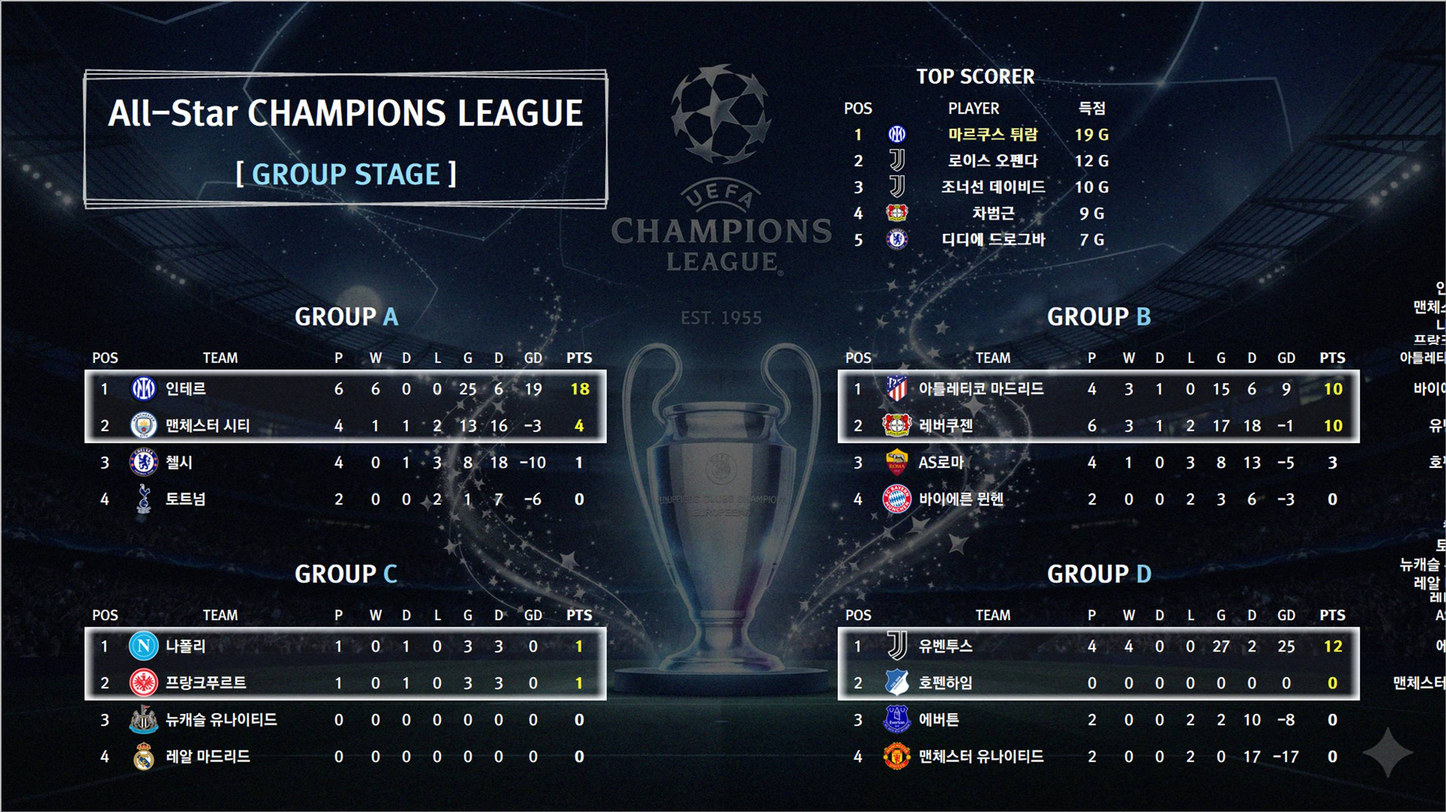
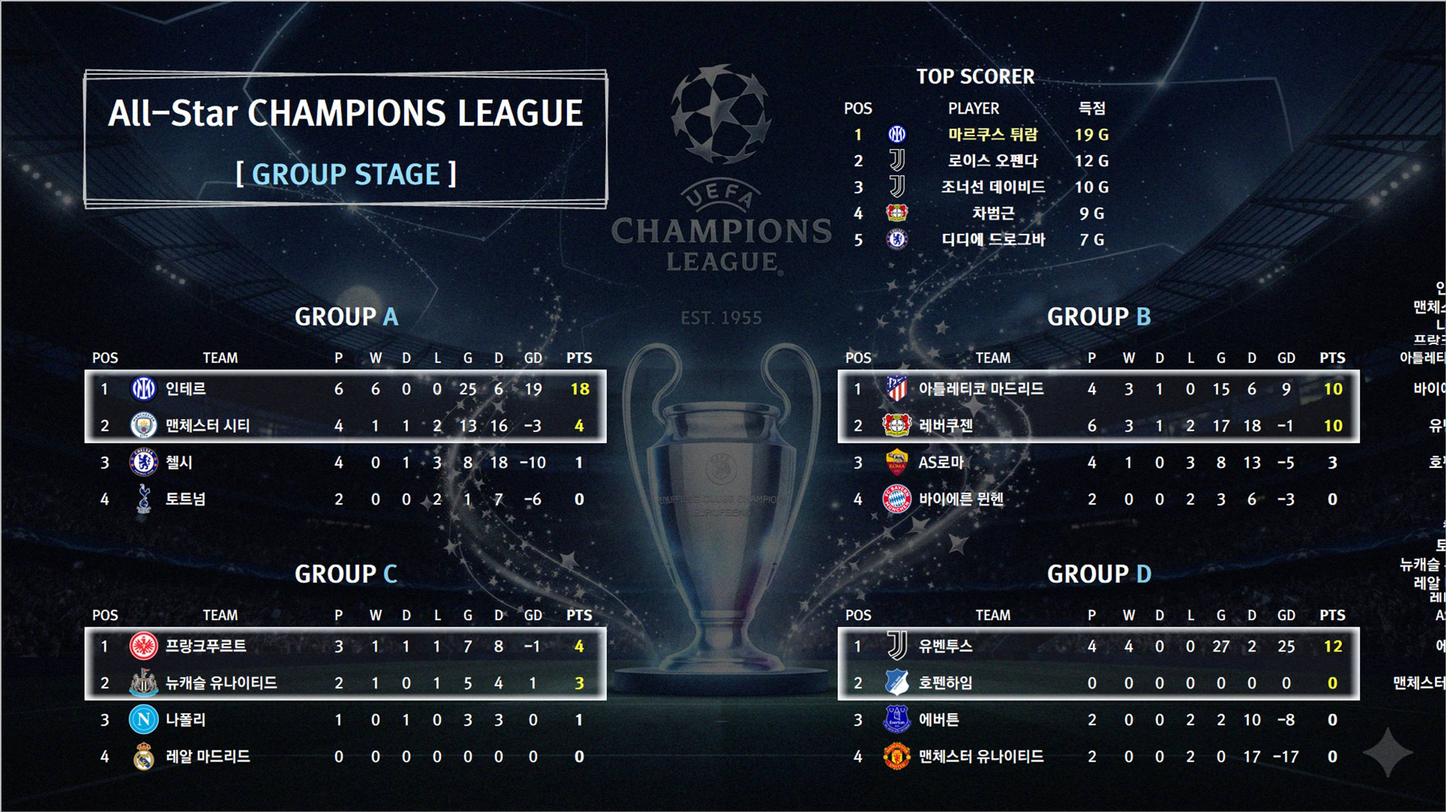
Optimize: 23:50:46

Changed region(s): [[0.0622, 0.7783, 0.1866, 0.9029], [0.3733, 0.8717, 0.4044, 0.9029], [0.3422, 0.7783, 0.3733, 0.8095]]

diff --git a/index.html b/index.html
@@ -69,11 +69,11 @@
     <div class="container">
         <div class="card"><h2>🥇 1부 리그 순위표</h2><img src="https://i.ibb.co/nqXtGvH6/abac8508768f.jpg" alt="1부 리그"></div>
         <div class="card"><h2>🥈 2부 리그 순위표</h2><img src="https://i.ibb.co/R4sR4t4V/213f4edcf84d.jpg" alt="2부 리그"></div>
-        <div class="card"><h2>🌟 UCL 그룹스테이지</h2><img src="https://i.ibb.co/4RbdK0N4/7cc4daf8b265.jpg" alt="UCL 조별"></div>
+        <div class="card"><h2>🌟 UCL 그룹스테이지</h2><img src="https://i.ibb.co/GQT5f2zd/2ac8cab8fd0b.jpg" alt="UCL 조별"></div>
         <div class="card"><h2>🏆 UCL 토너먼트 대진표</h2><img src="https://i.ibb.co/XkS5kN50/dba62b318a4c.jpg" alt="UCL 토너"></div>
         <div class="card"><h2>🎖 UEL 토너먼트 대진표</h2><img src="https://i.ibb.co/99WK56K1/26cd3c8c8384.jpg" alt="UEL 토너"></div>
-        <div class="card"><h2>🏅 FA컵 토너먼트 대진표</h2><img src="https://i.ibb.co/DPTsqnKH/ce4514c0501a.jpg" alt="FA컵"></div>
-        <div class="card"><h2>👑 GOLDEN BOOT (통합 득점왕)</h2><img src="https://i.ibb.co/9mWWyXxh/660ab4c47164.jpg" alt="득점왕"></div>
+        <div class="card"><h2>🏅 FA컵 토너먼트 대진표</h2><img src="https://i.ibb.co/LDrYkCJm/d3ee7ac88792.jpg" alt="FA컵"></div>
+        <div class="card"><h2>👑 GOLDEN BOOT (통합 득점왕)</h2><img src="https://i.ibb.co/nNZYL3pB/274695394f11.jpg" alt="득점왕"></div>
     </div>
     
     <footer>
